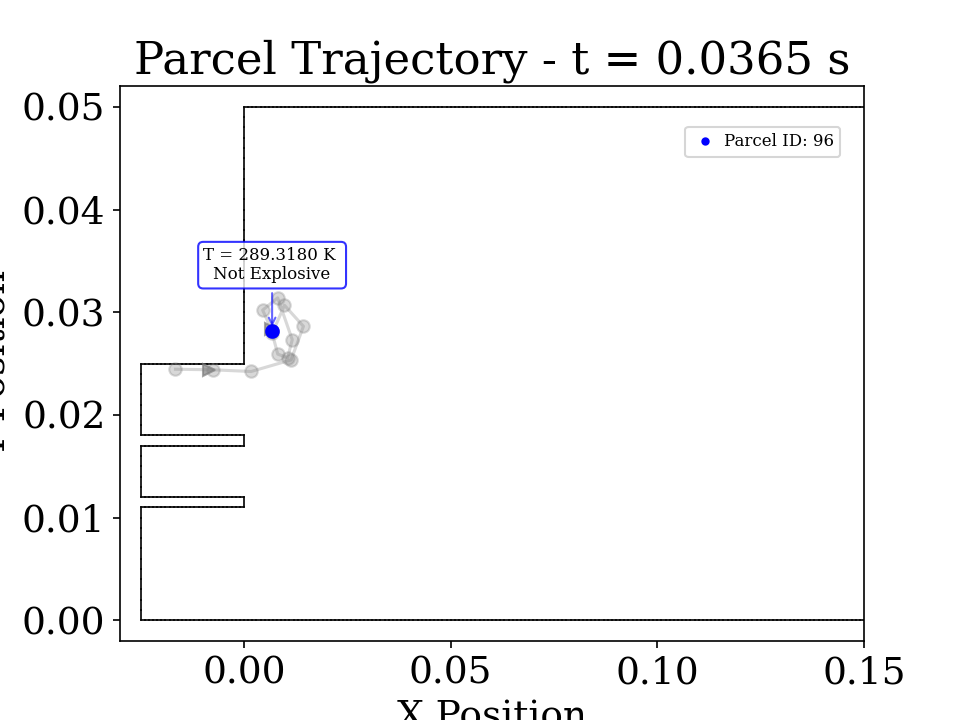
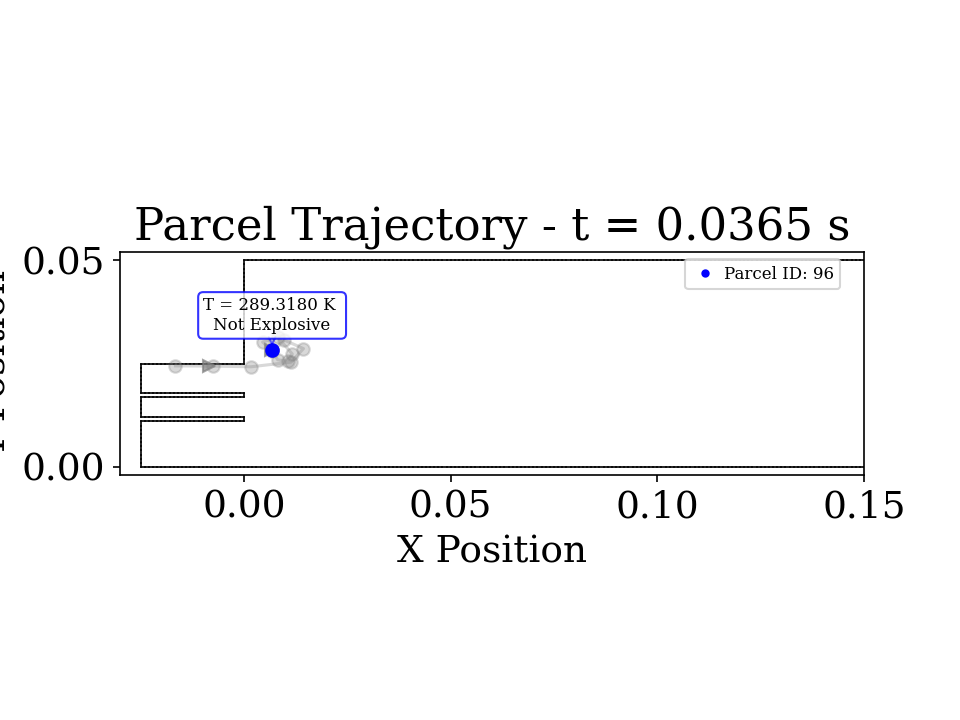
Function to plot parcels trajectory and resulting images

diff --git a/testcase/postProcessing/getEulerianFields/parcel_plot_background_csp.py b/testcase/postProcessing/getEulerianFields/parcel_plot_background_csp.py
@@ -1,9 +1,19 @@
 import os
-import sys
-sys.path.append("/mnt/d/csp-main")  
+import sys 
 import pandas as pd
 import matplotlib.pyplot as plt
+
+# Setup paths
+CURRENT_DIR = os.path.dirname(os.path.abspath(__file__))
+POSTPROCESSING_DIR = os.path.abspath(os.path.join(CURRENT_DIR, ".."))
+CSP_MAIN_DIR = os.path.join(POSTPROCESSING_DIR, "csp-main")
+sys.path.append(CSP_MAIN_DIR)
+
 from plotter import CSPPlotter 
+
+# Construct paths
+vtk_path = os.path.join(POSTPROCESSING_DIR, "cuttingPlanes", "0.04", "zMid.vtk")
+base_dir = CURRENT_DIR  # same folder as this script
 
 # === HELPER FUNCTION ===
 def shifted_points(x, y, shift_fraction=0.1):
@@ -18,10 +28,8 @@ def shifted_points(x, y, shift_fraction=0.1):
     return shifted_x, shifted_y
 
 # === CREATE INSTANCE ===
-plotter = CSPPlotter(vtk_file=os.path.expanduser("~/OpenFOAM/maffeise-12/run/Poinsot_burner_2D/testcase/postProcessing/cuttingPlanes/0.04/zMid.vtk"), p=None, Y=None, x=None, x_indices=None, eigenvalues=None, vl=None)
-
-# === CONFIGURATION ===
-base_dir = os.path.expanduser('~/OpenFOAM/maffeise-12/run/Poinsot_burner_2D/testcase/postProcessing/getEulerianFields')
+plotter = CSPPlotter(vtk_file=vtk_path, p=None, Y=None, x=None, x_indices=None, eigenvalues=None, vl=None)
+# choice of parcel
 target_parcel_id = 96
 
 # === INITIALISATION ===
@@ -81,7 +89,7 @@ for time_str in time_folders:
             time_stamps.append(float(time_str))
 
     except Exception as e:
-        print(f"Error processing file {file_path}: {e}")c
+        print(f"Error processing file {file_path}: {e}")
 
 # === SET FIXED AXIS LIMITS BASED ON ALL DATA ===
 fixed_xlim = (-0.030, 0.15) # zoom in order to see better the parcels
@@ -109,6 +117,9 @@ for i in range(len(x_positions)):
     # Plot current position in blue
     ax.plot(x_positions[i], y_positions[i], 'o', color='blue',label=f'Parcel ID: {target_parcel_id}')
     
+    
+    ax.set_aspect('equal', "box") #for some reason it leads to the axis changing for every timestep so comment
+    
     # Fix axes to constant limits
     ax.set_xlim(fixed_xlim)
     ax.set_ylim(fixed_ylim)
@@ -123,7 +134,6 @@ for i in range(len(x_positions)):
     borderaxespad=0       # reduce padding between legend and axes
     )
     
-    #ax.set_aspect('equal', "box") for some reason it leads to the axis changing for every timestep so comment
     
     # Flag to point out if species are explosive
     flag_text = "Explosive" if bool(WP_flag_list[i]) else "Not Explosive"
